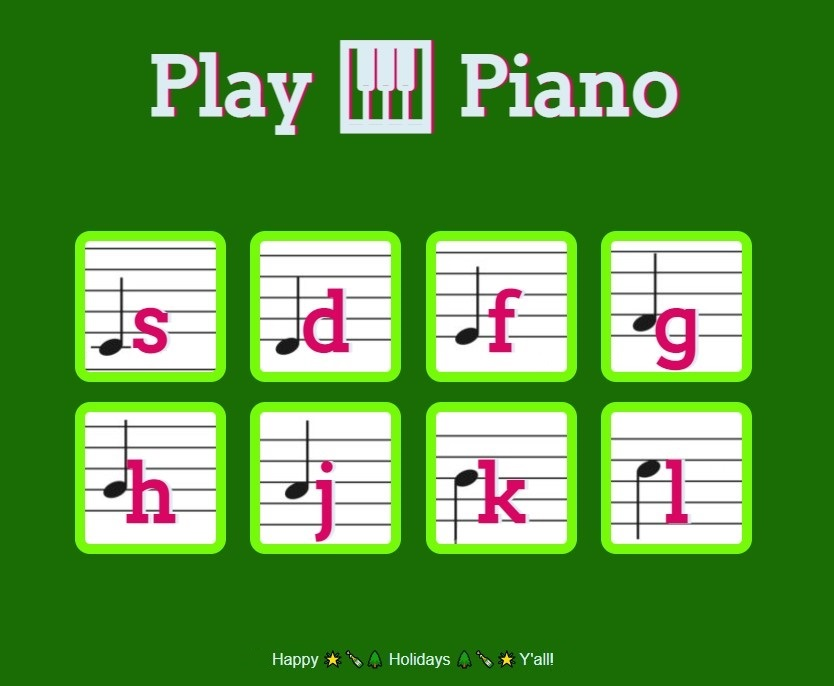
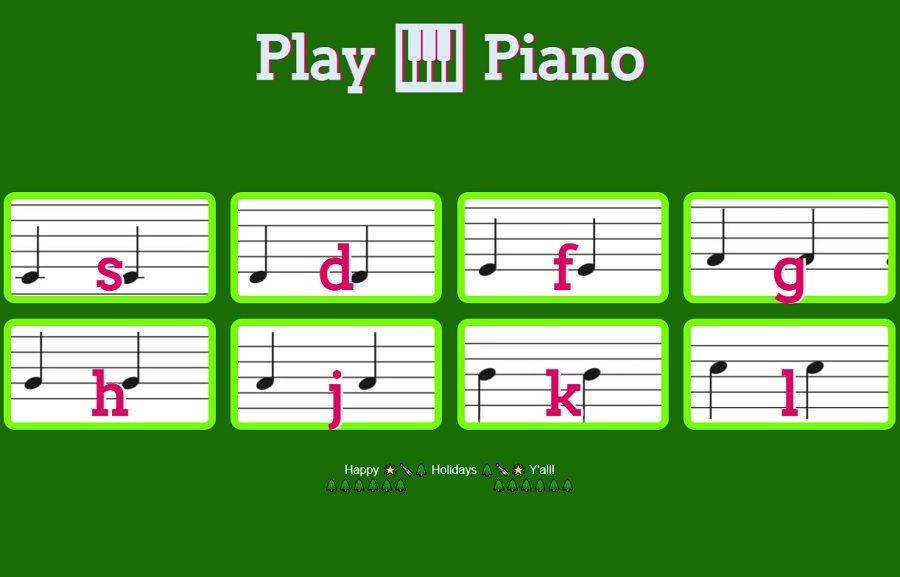
Added animation. Did some code refactoring.

diff --git a/app.js b/app.js
@@ -1,119 +1,127 @@
-// v. 2021-12-13
+// v. 2021-12-14a
 
 var numOfDrumButtons = document.querySelectorAll(".drum").length;
 
 for (var i=0; i<numOfDrumButtons; i++) {
 
+  // mouse click functionality
   document.querySelectorAll(".drum")[i].addEventListener("click", function() {
 
-    // console.log(this.innerHTML);
-    
     var buttonInnerHTML = this.innerHTML;
 
-    switch (buttonInnerHTML) {
-      case "s":
-        var audio1 = new Audio("sounds/1_Do_C3.mp3")
-        audio1.play();
-        break;
+    makeSound(buttonInnerHTML);
 
-      case "d":
-        var audio2 = new Audio("sounds/2_Re_D3.mp3")
-        audio2.play();
-        break;
-
-      case "f":
-        var audio3 = new Audio("sounds/3_Mi_E3.mp3")
-        audio3.play();        
-        break;
-        
-      case "g":
-        var audio4 = new Audio("sounds/4_Fa_F3.mp3")
-        audio4.play();
-        break;
-
-      case "h":
-        var audio5 = new Audio("sounds/5_Sol_G3.mp3")
-        audio5.play();
-        break;
-
-      case "j":
-        var audio6 = new Audio("sounds/6_La_A3.mp3")
-        audio6.play();
-
-        break;
-
-      case "k":
-        var audio7 = new Audio("sounds/7_Si_B3.mp3")
-        audio7.play();
-        break;
-
-      case "l":
-        var audio8 = new Audio("sounds/8_Do2_C4.mp3")
-        audio8.play();
-        break;
-
-      default:
-        console.log(buttonInnerHTML);
-    }
-  
+    buttonAnimation(buttonInnerHTML);
+    // depending on the key pressed (defined through classes in CSS), 
+    // create and play one of eight corresponding musical notes from do to do.
   });
   
 }
 
-// event keypress does not exist any longer
-document.addEventListener("keydown", function(event) { 
-  console.log(event.code);
-  // alert("Key was pressed" + key)
-  makeSound(event.code);
+// Key press functionality. Event "keypress" does not exist any longer. I am using "keydown" event.
+// The callback function "function" returns the "keydown" respective event.
+// And the event.code gets passed on to function makesound().
+// See https://javascript.info/keyboard-events/ for more info.
 
-});
+document.addEventListener("keydown", 
+                          function(event) { makeSound(event.code); }
+                         );
 
+// function receives the event.code (key) or an html class: "s", "d", "f", "g", "h", "j", "k", "l".
+// I chose the keys for ease of use. And then plays a respective musical tone depending on the key received.
+// I dowonloaded piano musical tones, and I cut the mp3 files to be shorter.
+// I have no idea about piano stuff, and I found the notation to be very complicated!
+// So I played the sounds and downloaded them by ear (https://github.com/fuhton/piano-mp3),
+//   while listening to https://youtu.be/73ZZXyKS8X0. 😜👍
+
+// I added animation as well. But since there are different codes returned by mouse and key pressed,
+//    I am calling the animation from within the switch cases, which I group both mouse and click together.
+ 
 function makeSound(key) {
+
+  var valueEntered = "";
 
   switch (key) {
     case "KeyS":
+    case "s":
       var audio1 = new Audio("sounds/1_Do_C3.mp3")
       audio1.play();
+      valueEntered = "s";
+      // console.log("key in: " + key + ". Value passed on to buttonAnimation: " + valueEntered);
+      buttonAnimation(valueEntered);
       break;
 
     case "KeyD":
+    case "d":
       var audio2 = new Audio("sounds/2_Re_D3.mp3")
       audio2.play();
+      valueEntered = "d";
+      // console.log("key in: " + key + ". Value passed on to buttonAnimation: " + valueEntered);
+      buttonAnimation(valueEntered);
       break;
 
     case "KeyF":
+    case "f":
       var audio3 = new Audio("sounds/3_Mi_E3.mp3")
       audio3.play();        
+      valueEntered = "f";
+      // console.log("key in: " + key + ". Value passed on to buttonAnimation: " + valueEntered);
+      buttonAnimation(valueEntered);
       break;
       
     case "KeyG":
+    case "g":
       var audio4 = new Audio("sounds/4_Fa_F3.mp3")
       audio4.play();
+      valueEntered = "g";
+      // console.log("key in: " + key + ". Value passed on to buttonAnimation: " + valueEntered);
+      buttonAnimation(valueEntered);
       break;
 
     case "KeyH":
+    case "h":
       var audio5 = new Audio("sounds/5_Sol_G3.mp3")
       audio5.play();
+      valueEntered = "h";
+      // console.log("key in: " + key + ". Value passed on to buttonAnimation: " + valueEntered);
+      buttonAnimation(valueEntered);
       break;
 
     case "KeyJ":
+    case "j":
       var audio6 = new Audio("sounds/6_La_A3.mp3")
       audio6.play();
-
+      valueEntered = "j";
+      // console.log("key in: " + key + ". Value passed on to buttonAnimation: " + valueEntered);
+      buttonAnimation(valueEntered);
       break;
 
     case "KeyK":
+    case "k":
       var audio7 = new Audio("sounds/7_Si_B3.mp3")
       audio7.play();
+      valueEntered = "k";
+      // console.log("key in: " + key + ". Value passed on to buttonAnimation: " + valueEntered);
+      buttonAnimation(valueEntered);
       break;
 
     case "KeyL":
+    case "l":
       var audio8 = new Audio("sounds/8_Do2_C4.mp3")
       audio8.play();
+      valueEntered = "l";
+      // console.log("key in: " + key + ". Value passed on to buttonAnimation: " + valueEntered);
+      buttonAnimation(valueEntered);
       break;
 
     default:
-      console.log(key);
+      console.log(valueEntered);
   }
+}
 
+function buttonAnimation(valueEntered) {
+  var activeButton = document.querySelector("." + valueEntered);
+  activeButton.classList.add("pressed");
+  setTimeout(function() { activeButton.classList.remove ("pressed"); },
+             170);
 }

diff --git a/styles.css b/styles.css
@@ -54,12 +54,12 @@ footer {
 
 .game-over {
   background-color: red;
-  opacity: 0.8;
+  opacity: 0.6;
 }
 
 .pressed {
-  box-shadow: 0 3px 4px 0 #DBEDF3;
-  opacity: 0.5;
+  box-shadow: 0 3px 4px 0 #ff5444;
+  opacity: 0.4;
 }
 
 .red {

diff --git a/index.html b/index.html
@@ -84,6 +84,8 @@
 </body>
 <footer>
   Happy 🌟🍾🌲  Holidays  🌲🍾🌟 Y'all!
+  <br>
+  🌲🌲🌲🌲🌲🌲 v. 2021.12.14b 🌲🌲🌲🌲🌲🌲
 </footer>
-<!-- v.2021.12.13 -->
+
 </html>
